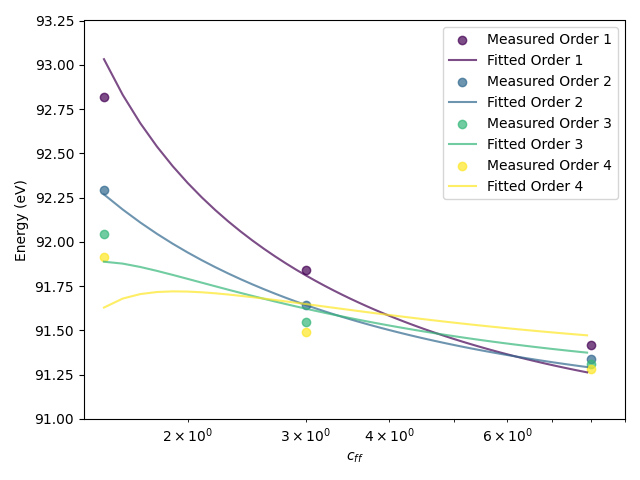
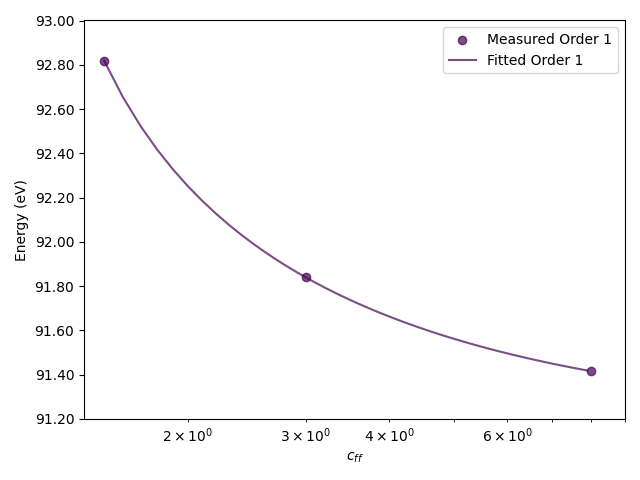
update

diff --git a/src/PGM_calibration.py b/src/PGM_calibration.py
@@ -146,25 +146,7 @@ class PGMCalibration:
         es = self.grating_equation(theta, beta, order, dtheta=dtheta, dbeta=dbeta)
         return es
 
-    def residuals(self, params, measured_energies, cff_values, orders):
-        """
-        Calculate residuals between measured and shifted energies.
 
-        Args:
-            params (list): List of parameters [DTheta, DBeta, E].
-            measured_energies (list): List of measured energies.
-            cff_values (list): List of fixed focus constant values.
-
-        Returns:
-            list: List of residuals.
-        """
-        DTheta, DBeta, E = params
-        residuals = []
-        for i, cff in enumerate(cff_values):
-            measured_energy = measured_energies[i]
-            shifted_energy = self.shifted_energy(cff, orders[i], DTheta, DBeta, E)
-            residuals.append(measured_energy - shifted_energy)
-        return residuals
     
     def check_angles(self, E,shifted_energy, cff,order):
         true_wavelength = self.calc_wavelength(E)
@@ -172,7 +154,29 @@ class PGMCalibration:
         alpha = self.calc_alpha(beta, cff)
         theta = self.calc_theta(alpha, beta)
         print(f'E={E}, w={true_wavelength}, cff={cff},  theta={90-np.rad2deg(theta)}, beta={90-np.rad2deg(beta)}, Ecal={shifted_energy}')
+    
+    def residuals(self, params, measured_energies, cff_values, orders):
+        """
+        Calculate residuals between measured and shifted energies with weights for higher orders.
 
+        Args:
+            params (list): List of parameters [DTheta, DBeta, E].
+            measured_energies (list): List of measured energies.
+            cff_values (list): List of fixed focus constant values.
+            orders (list): List of diffraction orders.
+
+        Returns:
+            list: List of weighted residuals.
+        """
+        DTheta, DBeta, E = params
+        residuals = []
+        for i, cff in enumerate(cff_values):
+            measured_energy = measured_energies[i]
+            shifted_energy = self.shifted_energy(cff, orders[i], DTheta, DBeta, E)
+            weight = 1 / orders[i]**2  # Example weight: inverse of the order
+            residuals.append(weight * (measured_energy - shifted_energy))
+        return residuals
+    
     def fit_parameters(self, measured_energies, cff_values, orders, print_fit_report=True, delta_E=3):
         """
         Fit parameters using least squares optimization.

diff --git a/examples/example_PGMCalibration_UE112_2016.py b/examples/example_PGMCalibration_UE112_2016.py
@@ -13,7 +13,14 @@ orders = np.array([           1,      1,     1,      2,      2,      2,      3, 
 cff_values = np.array([       1.5,    3,     8,      1.5,    3,      8,      1.5,    3,      8,      1.5,    3,      8])
 measured_energies = np.array([92.819, 91.84, 91.416, 92.295, 91.641, 91.341, 92.044, 91.545, 91.309, 91.913, 91.489, 91.284 ])
 
+# Select only orders 3 and 4
+selected_orders = [1]
+mask = np.isin(orders, selected_orders)
 
+# Filtered data
+orders = orders[mask]
+cff_values = cff_values[mask]
+measured_energies = measured_energies[mask]
 
 
 
